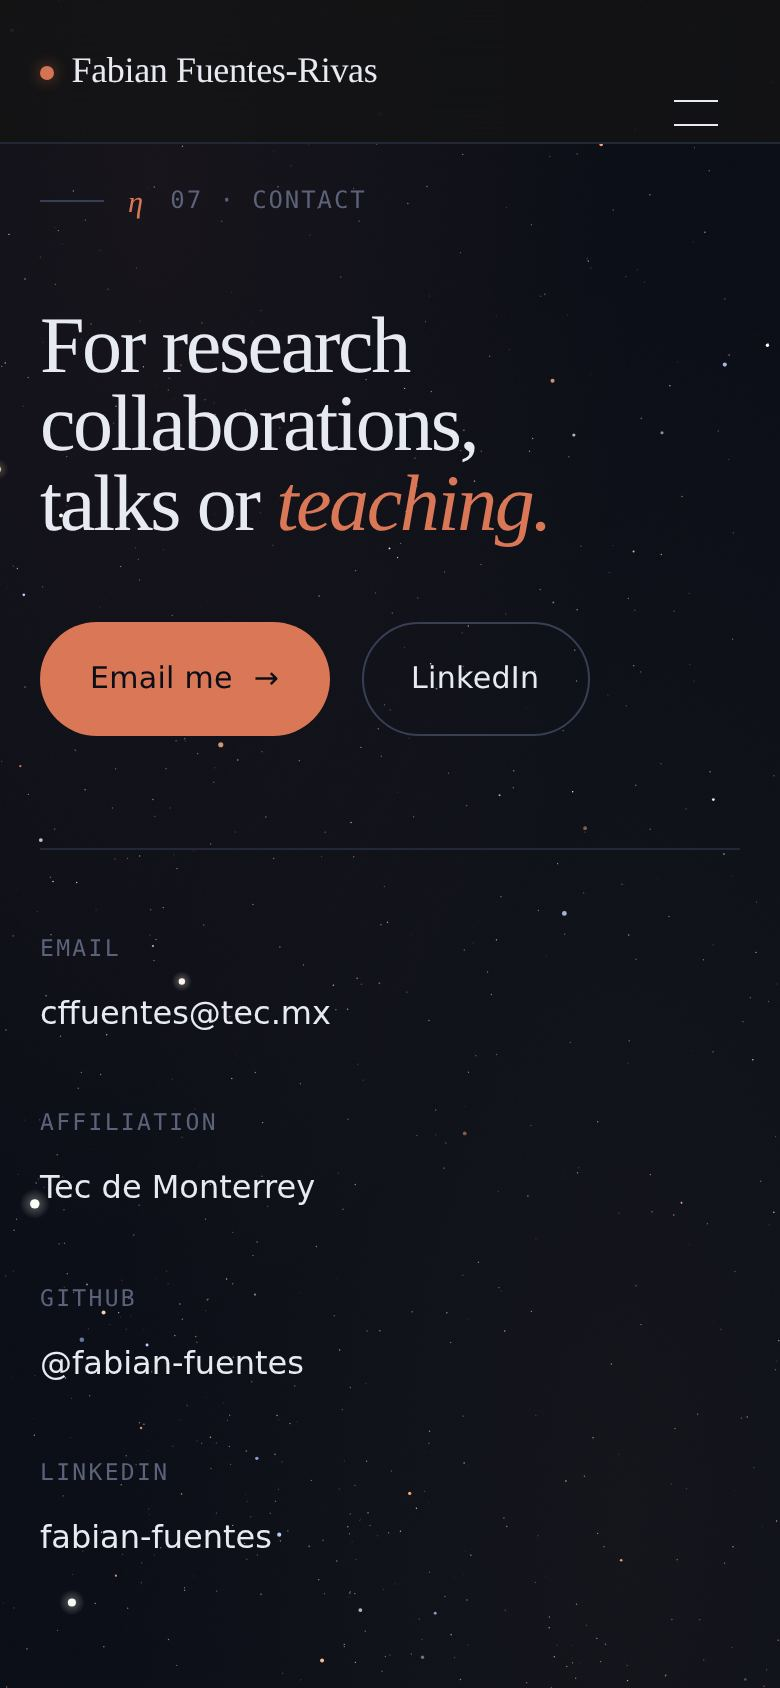
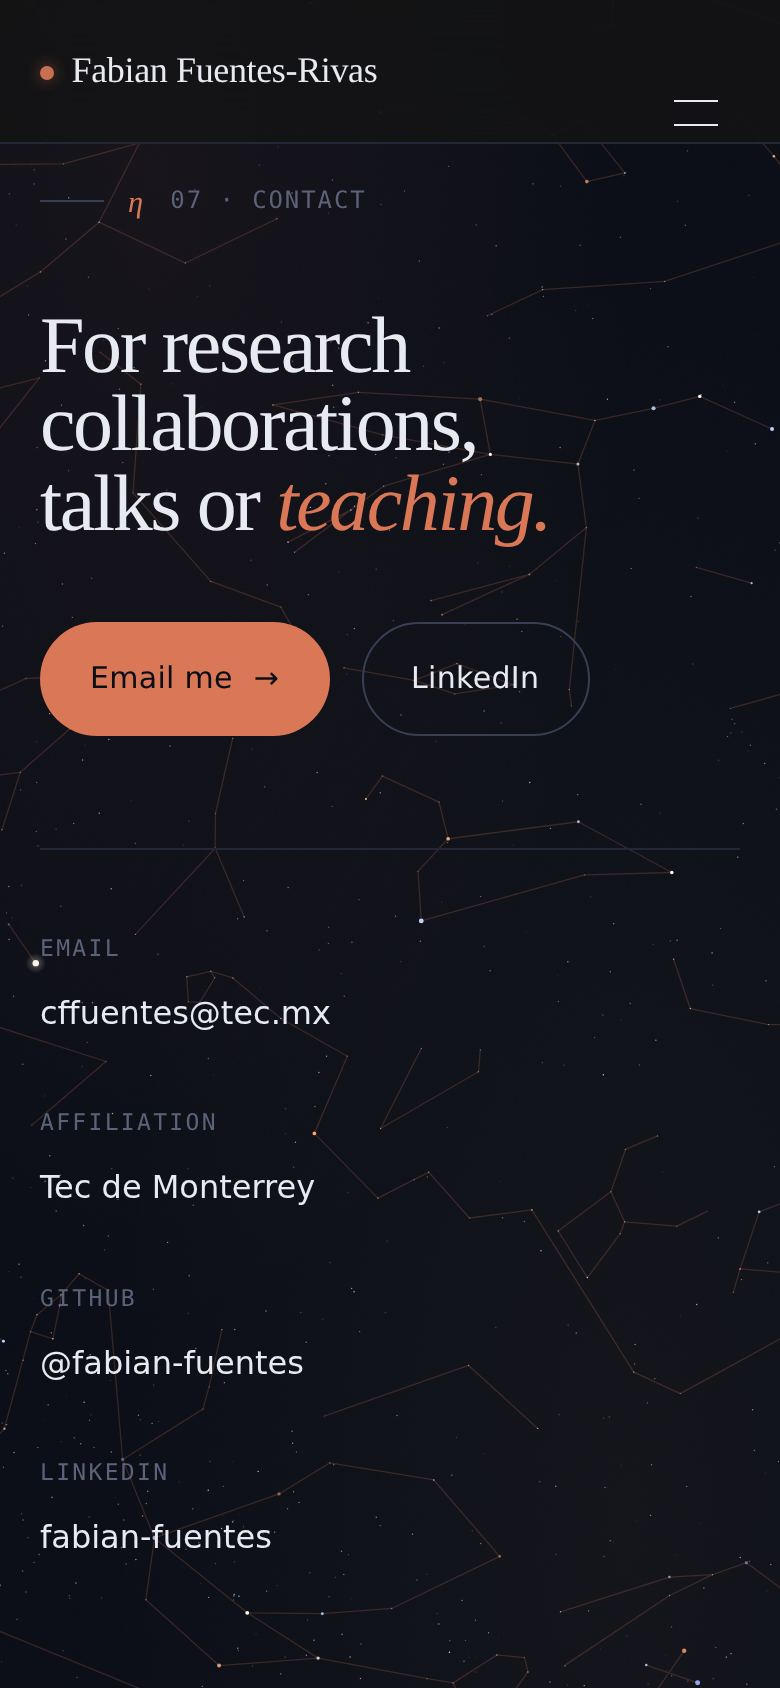
Draw the 88 IAU constellation stick figures over the live sky
Previously the background projected every catalogue star at its real
position but nothing tied the brighter stars into recognisable shapes.
Add the IAU constellation stick figures so visitors who know the sky
can spot familiar asterisms (Orion, Ursa Major, Cassiopeia, the Cross,
etc.) sitting exactly where they belong for the observer's horizon.

Data:
- Bundle data/constellations.json (~17 KB): a trimmed GeoJSON from
  ofrohn/d3-celestial, flattened to [{ id, lines: [[[ra,dec], ...]] }]
  per IAU constellation. 89 features covering all 88 official ones.

Renderer:
- Extend the starfield renderer to project each polyline segment using
  the same alt/az + azimuthal-equidistant projection as the stars.
  A segment is drawn only when both endpoints are above the horizon,
  so shapes crossing the horizon are cleanly skipped instead of
  clipping through the edge of the dome.
- Draw lines before the stars so the stars sit on top of the figures.
  Stroke is a single batched Path2D per frame: stroke 0.65 px, round
  caps, clay at alpha 0.22 — readable but sober, matching the rest
  of the UI.
- Mouse parallax applies to the lines at 35 % of the star weight so
  the figures drift gently but stay perceptually locked to the stars.
- Constellations join the same 10-minute reproject cadence as stars;
  they reproject silently when the catalogue loads.

Copy:
- Footer meta updated to 'Tonight's sky · Hipparcos catalogue & IAU
  constellations' so the provenance is credited.
[…]

Changed region(s): [[0.2154, 0.5545, 0.2462, 0.5853], [0.0308, 0.7085, 0.0615, 0.7393], [0.0308, 0.5545, 0.0615, 0.5853]]

diff --git a/js/script.js b/js/script.js
@@ -85,6 +85,8 @@
 
   let stars = [];          // raw catalog: [ra, dec, mag, bv]
   let projected = [];      // { x, y, r, rgb, alpha, tw, ts, tp }
+  let constellations = []; // [{ id, lines: [[[ra,dec],...], ...] }]
+  let constLines = [];     // projected polylines as [[x,y],[x,y],...]
   let w = 0, h = 0, dpr = 1, cx = 0, cy = 0, scale = 5;
 
   let targetParallaxX = 0, targetParallaxY = 0;
@@ -174,6 +176,7 @@
     const jd = toJD(date);
     const lst = lstDeg(jd, observer.lon);
     projected.length = 0;
+    constLines.length = 0;
 
     for (let i = 0; i < stars.length; i++) {
       const s = stars[i];
@@ -190,6 +193,27 @@
         ts: 0.15 + Math.random() * 0.9,
         tp: Math.random() * Math.PI * 2,
       });
+    }
+
+    // Project each constellation stick figure. A segment is only drawn
+    // when both of its endpoints are above the horizon — anything
+    // crossing the horizon gets cleanly skipped.
+    for (let i = 0; i < constellations.length; i++) {
+      const c = constellations[i];
+      for (let j = 0; j < c.lines.length; j++) {
+        const line = c.lines[j];
+        for (let k = 0; k < line.length - 1; k++) {
+          const a = line[k];
+          const b = line[k + 1];
+          const pa = altAz(a[0], a[1], lst, observer.lat);
+          const pb = altAz(b[0], b[1], lst, observer.lat);
+          if (pa.alt <= 0 || pb.alt <= 0) continue;
+          const A = project(pa.alt, pa.az);
+          const B = project(pb.alt, pb.az);
+          if (!A || !B) continue;
+          constLines.push([A.x, A.y, B.x, B.y]);
+        }
+      }
     }
   }
 
@@ -218,6 +242,21 @@
 
     parallaxX += (targetParallaxX - parallaxX) * 0.05;
     parallaxY += (targetParallaxY - parallaxY) * 0.05;
+
+    // Constellations first, behind the stars. Subtle clay lines that
+    // read as connective tissue without competing with the starfield.
+    if (constLines.length) {
+      ctx.lineWidth = 0.65;
+      ctx.strokeStyle = "rgba(217, 119, 87, 0.22)";
+      ctx.lineCap = "round";
+      ctx.beginPath();
+      for (let i = 0; i < constLines.length; i++) {
+        const [x1, y1, x2, y2] = constLines[i];
+        ctx.moveTo(x1 + parallaxX * 0.35, y1 + parallaxY * 0.35);
+        ctx.lineTo(x2 + parallaxX * 0.35, y2 + parallaxY * 0.35);
+      }
+      ctx.stroke();
+    }
 
     const len = projected.length;
     for (let i = 0; i < len; i++) {
@@ -314,10 +353,14 @@
     );
   }
 
-  // Fetch the catalog asynchronously and swap the placeholder for the
-  // real sky.
-  fetch("data/bsc.json", { cache: "force-cache" })
-    .then((r) => (r.ok ? r.json() : Promise.reject(r.status)))
+  // Fetch the star and constellation catalogs in parallel and swap the
+  // placeholder for the real sky once stars arrive.
+  const fetchJSON = (url) =>
+    fetch(url, { cache: "force-cache" }).then((r) =>
+      r.ok ? r.json() : Promise.reject(r.status)
+    );
+
+  fetchJSON("data/bsc.json")
     .then((data) => {
       stars = data;
       reproject();
@@ -325,6 +368,15 @@
     })
     .catch(() => {
       // Catalog unavailable — keep the random placeholder.
+    });
+
+  fetchJSON("data/constellations.json")
+    .then((data) => {
+      constellations = data;
+      if (stars.length) reproject();
+    })
+    .catch(() => {
+      // Constellation catalog is a nice-to-have — silent failure is OK.
     });
 
   // Recompute the sky every 10 minutes so an open tab still shows

diff --git a/index.html b/index.html
@@ -644,7 +644,7 @@
           © <span id="year"></span> · Fabian Fuentes-Rivas. All rights reserved.
         </span>
         <span class="footer__meta">
-          Sky rendered live from the Hipparcos catalog
+          Tonight's sky · Hipparcos catalogue &amp; IAU constellations
         </span>
       </div>
     </div>
